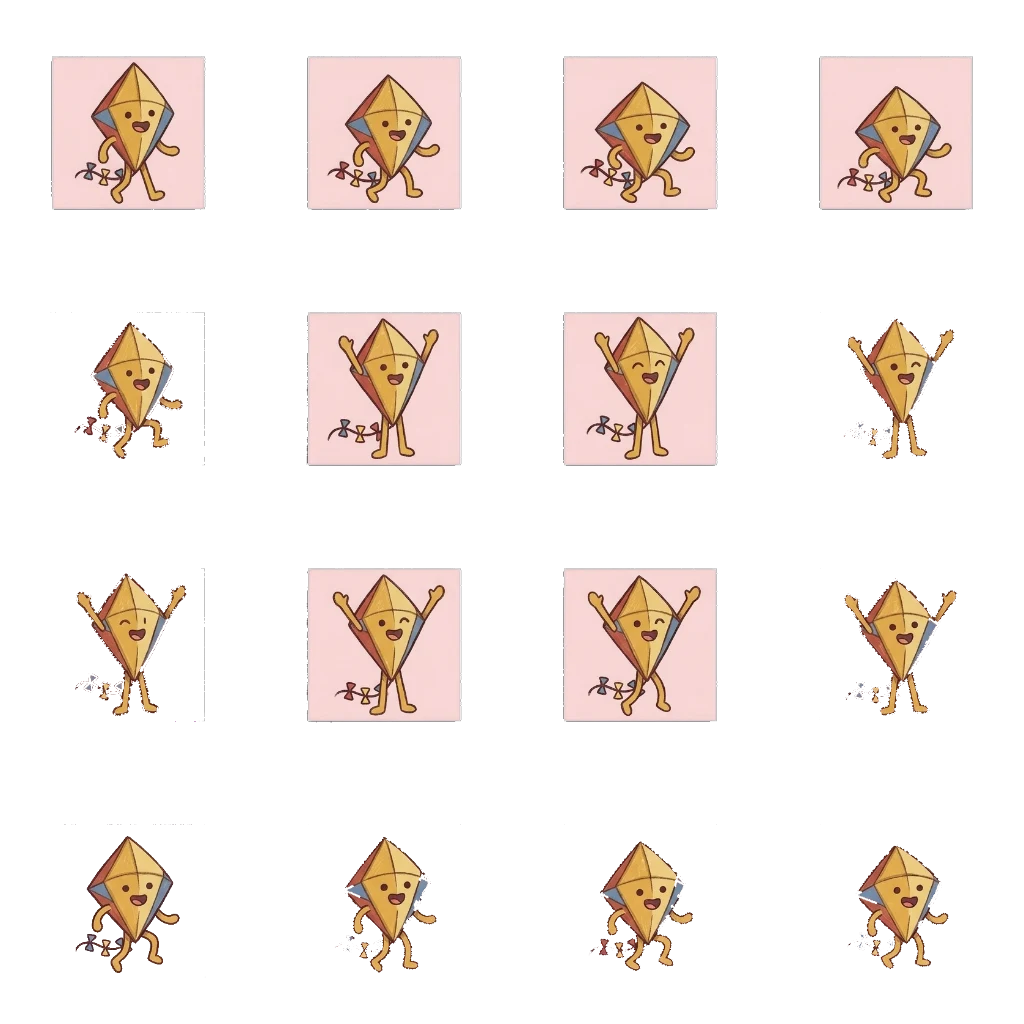
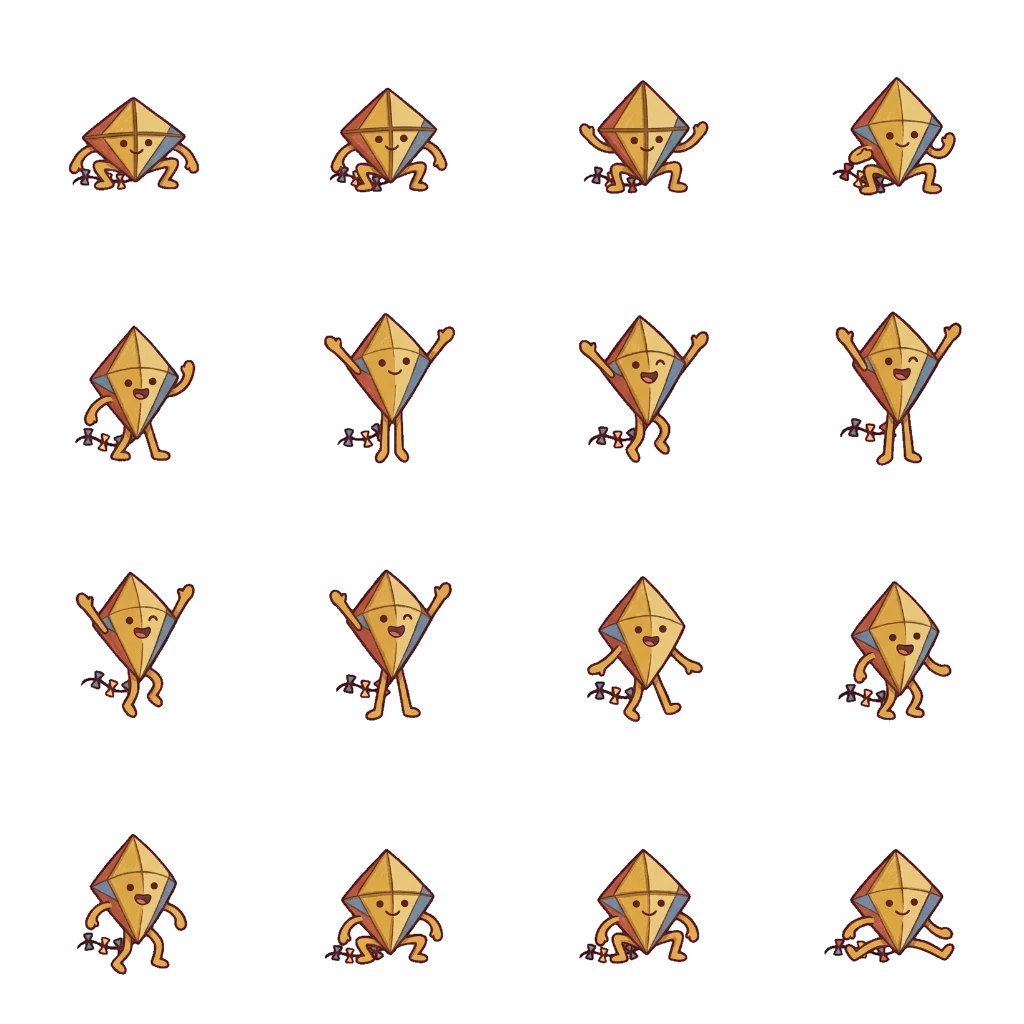
Kite art: enemies and wisps painted, dance sheet repainted (no pink ground), no sunglasses on kite Pweeg

diff --git a/src/umbrella/art/manifest.ts b/src/umbrella/art/manifest.ts
@@ -143,11 +143,11 @@ const PWEEG_COLOUR = 'Pweeg is WHITE — a warm porcelain white body with a cool
 const CHAD_IS = 'Chad, Pweeg\'s cool friend: exactly Pweeg\'s body (a big round white head, no torso, two short thick tube legs, two thin loop arms) wearing a pair of black rounded-rectangle sunglasses with one small white glint'
 const CHAD_COLOUR = 'Chad is WHITE like Pweeg (warm porcelain white, lavender-grey cel shadow); his sunglasses are glossy black with a single white glint'
 const SIDE_VIEW = 'a flat side view, facing RIGHT like the reference (his eyes sit toward the right of his head). No three-quarter view, no perspective, no ground, no shadow on the ground.'
-const KITE_IS = 'Pweeg-Kite, the player as a KITE (exactly as the designer\'s Pweeg-Chad kite character model sheet draws him): a diamond kite body with a cute face on it, crossed spars, mustard-yellow paper panels with brick-red and dusty-blue edges, two stubby little arms and two stubby legs, and a string bow-tail with small red, yellow and blue bows'
+const KITE_IS = 'Pweeg-Kite, the player as a KITE (exactly as the designer\'s Pweeg-Chad kite character model sheet draws him): a diamond kite body with a cute face on it, crossed spars, mustard-yellow paper panels with brick-red and dusty-blue edges, two stubby little arms and two stubby legs, and a string bow-tail with small red, yellow and blue bows. Pweeg-Kite NEVER wears sunglasses, goggles or glasses in any pose: his face is only two plum-brown dot eyes and a small smile (sunglasses belong to his friend Chad alone)'
 const KITE_COLOUR = 'mustard and golden-yellow kite paper, brick-red and dusty-blue edge panels, a warm brown spar cross; the face plum-brown dots and a small smile; bows red, mustard and blue'
 const CHAD_KITE_IS = 'Chad-Kite, Pweeg-Kite\'s cool friend: the SAME diamond kite body, arms, legs and bow-tail, wearing black rounded sunglasses with one small white glint'
 const CHAD_KITE_COLOUR = 'the same kite colours as Pweeg-Kite (mustard, brick red, dusty blue); glossy black sunglasses'
-const KITE_VIEW = 'a flat side view facing RIGHT like the reference (the face sits toward the right of the diamond), the kite seen flat-on like a paper kite. No three-quarter view, no perspective, no ground, no shadow on the ground.'
+const KITE_VIEW = 'a flat side view facing RIGHT like the reference (the face sits toward the right of the diamond), the kite seen flat-on like a paper kite. No three-quarter view, no perspective, no ground, no shadow on the ground. The ground of EVERY panel is the same flat pure magenta (#FF00FF): never pink, pastel, white, cream or a gradient. Keep every figure, raised arms and tail included, well inside its own panel with clear empty magenta space (at least 8% of the panel) on all four sides, so no limb reaches the next panel.'
 
 // ─── The sheets ─────────────────────────────────────────────────────────────
 

diff --git a/changelog.md b/changelog.md
@@ -6,7 +6,7 @@ Umbrella — changelog (newest first)
 - [x] Every kite level is proven beatable: a bot plays the real engine (scripts/kite-solve.mjs) and the test suite replays its recorded wins; it also checks safe spawns and a rising difficulty curve across the worlds
 
 - [x] Painted kite art (roadmap #6, kite build only): Pweeg and Chad are kites in a cream-paper crayon style (20 spritesheets: idle, walk, float, fall, terminal, broken, cheer, flattened, destroyed, front; platforms, finish, switch platform, ventilator, checkpoint); no umbrella is drawn over a kite. Enemies, props and wind wisps stay vector until painted; the normal /umbrella build contains no painted art
-- [x] Art Desk accepts Gemini's "Automatic" model when the Create image tool is on
+- [x] Kite art update: enemy art painted (Prickbait, Walldorf body and face, wind wisps); the dance sheet repainted (it had a pink ground that flickered), kite Pweeg no longer wears sunglasses (Chad's trademark); the Art Desk accepts Gemini's "Automatic" model when the Create image tool is on
 
 == Revision 9 — 2026-10-23 ==
 - [x] Ventilator prop (editor tool, shortcut W; labels in all 21 locales): whirring blades; landing in one shreds the player
